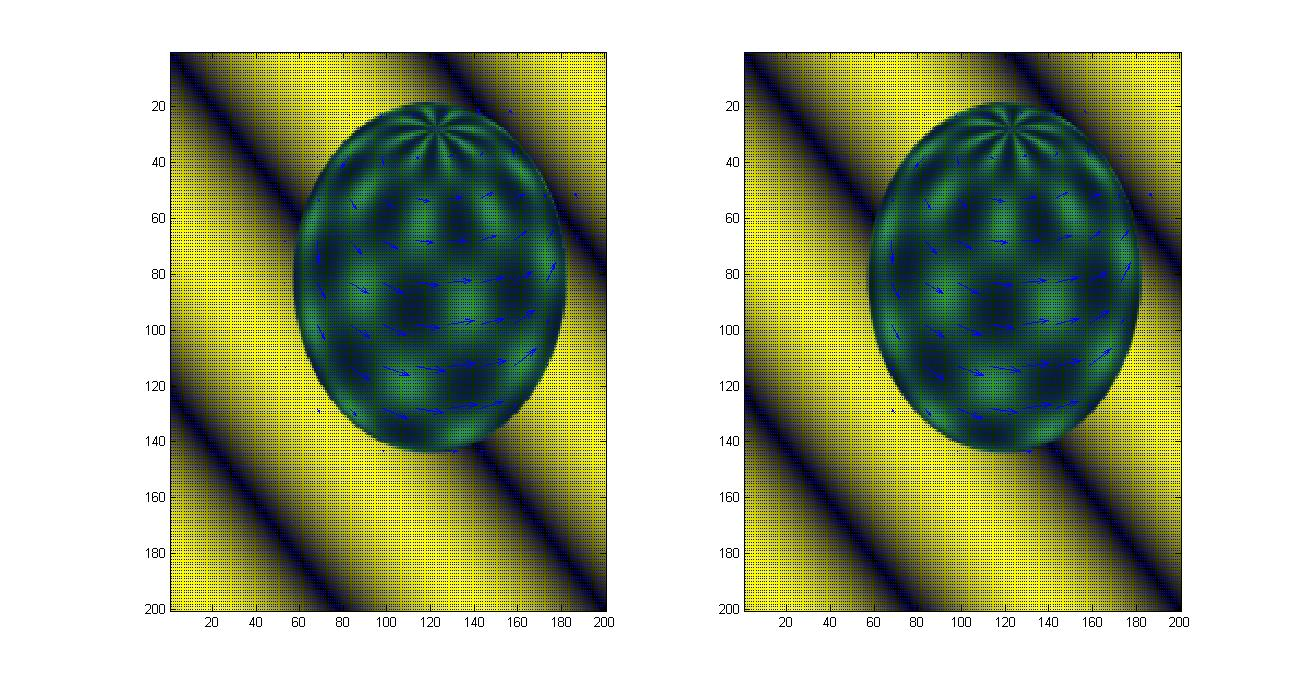
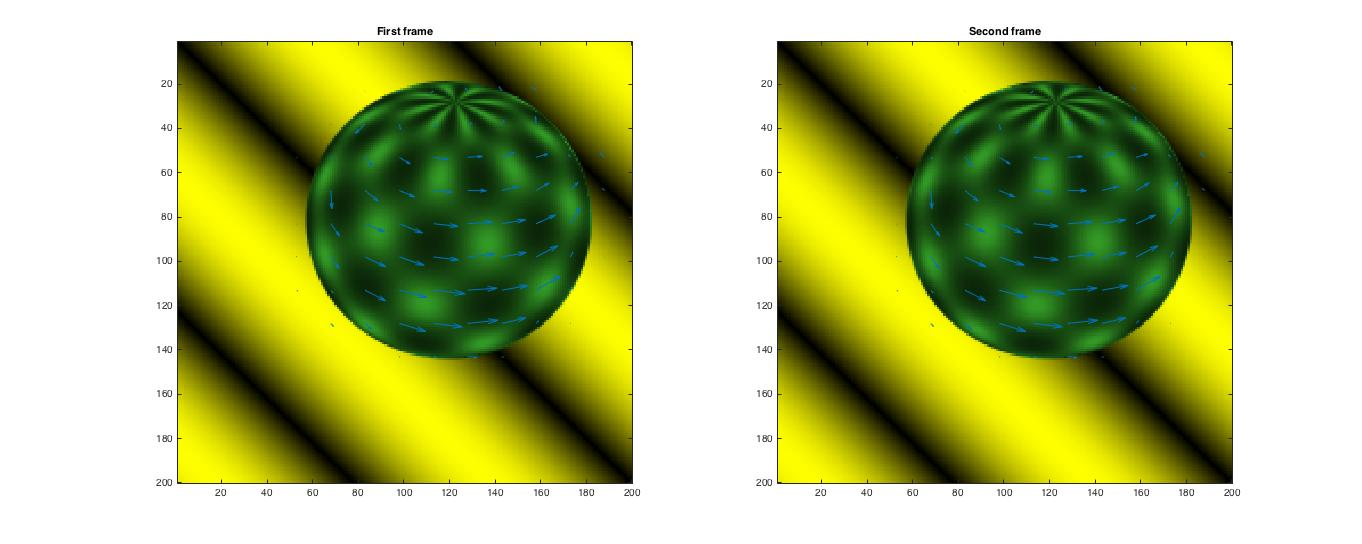
small changes here & there

diff --git a/3-assignment/report.tex b/3-assignment/report.tex
@@ -178,47 +178,70 @@ kernel as stated in the previous section. This time the tuned parameters are as 
 % To get the full partial $x-y$ derivatives, we added the corresponding gradients from image in $t_1$ and $t_2$.
 % NOT SURE WHY? ASSIGNMENT SAYS IT?S ONLY DERIVATIVE EVALUATED AT CURRENT TIME.
 To obtain the $t$ gradient we simply convolve the images with a uniform kernel
-of value $0.5$ and then we subtract $t_2$ from $t_1$.
+of value $0.25$ and then we subtract $t_2$ from $t_1$.
 
 To exploit the assumption made by Lucas-Kanade we divide the image into
 non-overlapping regions. The region size is a parameter that can be tuned, and
-in this case is set as $region\_size= 15$ as recommended by the assignment instructions. Then, for each region we solved the
-system of equations to find an estimation of the $x-y$ velocities of the
-pixel $p$ placed at the center of the region.
+in this case is set as $region\_size= 15$ as recommended by the assignment
+instructions. Then, for each region we solved the system of equations to find an
+estimation of the $x-y$ velocities of the pixel $p$ placed at the center of the
+region.
 
 For convenience we created a helper function $solve-region$ to solve the system
 of equations for a single region. This function takes the region's center
 coordinates $p_x$ and $p_y$, the window's size and the image derivatives in $X$,
-$Y$ and $t$ direction and constructs $A = [I_x I_y)]$ and $b = -I_t$ using the
+$Y$ and $t$ direction and constructs $A = [I_x I_y]$ and $b = -I_t$ using the
 image gradients at the specified region. Those are then used to solve the
 following system:
 $$V = (A^TA)^{-1}A^Tb$$
-which yelds $V = <u, v>$, the displacement matrix for $p$, the region's center.
+which yields $V = <u, v>$, the displacement vector for $p$, the region's center.
 
-The final step is to plot the velocity vectors on top of the image. First, we show the image and $hold on$ the figure, so that then we can plot the velocities with the Matlab $quiver$ function on top of it. The results obtained for the sphere and synth images are shown in Figure \ref{fig:sphere_lucas} and \ref{fig:synth_lucas}.
+The final step is to plot the optical flow on top of the image. First, we
+show the image and $hold on$ the figure, so that then we can plot the velocities
+with the Matlab $quiver$ function on top of it. The results obtained for the
+sphere and synth images are shown in Figure \ref{fig:sphere_lucas} and
+\ref{fig:synth_lucas} respectively.
 
 
 \begin{figure}[H] \centering
-	\includegraphics[width=.8\textwidth]{imgs/sphere.jpg}
-	\caption{Optical flow as determined by Lucas Kanade algorithm, applied to Sphere images.}
+	\includegraphics[width=1\textwidth]{imgs/sphere.jpg}
+	\caption{Optical flow as determined by Lucas-Kanade algorithm, applied to Sphere images.}
 	\label{fig:sphere_lucas}
 \end{figure}
 
 \begin{figure}[H] \centering
-	\includegraphics[width=.8\textwidth]{imgs/synth.jpg}
-	\caption{Optical flow as determined by Lucas Kanade algorithm, applied to Synth images}
+	\includegraphics[width=1\textwidth]{imgs/synth.jpg}
+	\caption{Optical flow as determined by Lucas-Kanade algorithm, applied to Synth images}
 	\label{fig:synth_lucas}
 \end{figure}
 
 
 \section{Tracking}
-With the previous two tools we we able to implement a simple tracking function. To do so, we first applied our implementation of Harris Corner Detector to the image at $t_1$. These were the features that were tracked along the rest of the given frames.  Then, for each pair of consecutive frames (except for the last single frame) we computed its displacement vectors which allowed us to know where the features had moved in subsequent frames. 
+With the previous two tools we we able to implement a simple tracking function.
+To do so, we first applied our implementation of Harris Corner Detector to the
+image at $t_1$. These were the features that were tracked along the rest of the
+given frames.  Then, for each pair of consecutive frames (except for the last
+single frame) we computed its displacement vectors which allowed us to know
+where the features had moved in subsequent frames. 
 
-Since some features may move outside the camera range, we implemented a mechanism to remove them from the list of tracked points. This is important because failing to remove these points causes the tracker to try to follow them, resulting in incoherent information. Firstly, the velocity vectors would be cut in the visualizations that $quiver$ allows, but secondly and most importantly, subsequent frames would not have enough information about where those points moved afterwards and would throw null and/or unusable values.  
+Since some features may move outside the camera range, we implemented a
+mechanism to remove them from the list of tracked points. This is important
+because failing to remove these points causes the tracker to try to follow them,
+resulting in incoherent information. Firstly, the velocity vectors would be cut
+in the visualizations that $quiver$ allows, but secondly and most importantly,
+subsequent frames would not have enough information about where those points
+moved afterwards and would throw null and/or unusable values.  
 
-Once the list of feature points had been checked, we applied the Lucas-Kanade method to get the displacement vectors between each pair of subsequent frames. At this point we were able to show the image with the feature points and their corresponding vectors. Then, we updated the positions of the feature pointsaccording to their displacement and save them as the features for the next frame. 
+Once the list of feature points had been checked, we applied the Lucas-Kanade
+method to get the displacement vectors between each pair of subsequent frames.
+At this point we were able to show the image with the feature points and their
+corresponding vectors. Then, we updated the positions of the feature
+pointsaccording to their displacement and save them as the features for the next
+frame. 
 
-A static visualization for our tracker is shown in Figure \ref{fig:tracker_pingpong} and \ref{fig:trackerperson}. The videos showing the tracking sequences are attached in the .zip file for the assignment delivery.
+A static visualization for our tracker is shown in Figure
+\ref{fig:tracker_pingpong} and \ref{fig:trackerperson}. The videos showing the
+tracking sequences are attached in the .zip file for the assignment delivery.
 
 \begin{figure}[H] \centering
 	\includegraphics[width=.8\textwidth]{imgs/tracker_pingpong.jpg}

diff --git a/3-assignment/lucas_kanade_test.m b/3-assignment/lucas_kanade_test.m
@@ -5,11 +5,11 @@ regions_size = 15;
 quiver_scale = 10;
 show_loops = 5;
 
- impath1 = 'assets/sphere1.ppm';
- impath2 = 'assets/sphere2.ppm';
+impath1 = 'assets/sphere1.ppm';
+impath2 = 'assets/sphere2.ppm';
 
- %impath1 = 'assets/synth1.pgm';
- %impath2 = 'assets/synth2.pgm';
+% impath1 = 'assets/synth1.pgm';
+% impath2 = 'assets/synth2.pgm';
 
 % impath1 = 'assets/pingpong/0000.jpeg';
 % impath2 = 'assets/pingpong/0001.jpeg';
@@ -24,6 +24,8 @@ im2 = imread(impath2);
 % Plot frames side by side
 figure
 subplot 121, imagesc(im1), hold on
-quiver(u, v, quiver_scale), hold off
+quiver(u, v, quiver_scale)
+title('First frame'), hold off
 subplot 122, imagesc(im2), hold on
-quiver(u, v, quiver_scale), hold off
+quiver(u, v, quiver_scale)
+title('Second frame'), hold off

diff --git a/3-assignment/lucas_kanade.m b/3-assignment/lucas_kanade.m
@@ -21,13 +21,13 @@ sigma = 1;
 
 kernel_x = gaussian(sigma, kernel_length);
 kernel_y = kernel_x';
-kernel_t = 0.25 * ones(size(kernel_x));
+kernel_t = 0.5 * ones(size(kernel_x, 1), size(kernel_x, 1));
 
 
 %% Compute image derivatives
 Ix_full = gaussian_der(im1, kernel_x, sigma, 'x') + gaussian_der(im2, kernel_x, sigma, 'x');
 Iy_full = gaussian_der(im1, kernel_y, sigma, 'y') + gaussian_der(im2, kernel_y, sigma, 'y');
-It_full = conv2(im2, kernel_t, 'same') - conv2(im1, kernel_t, 'same');
+It_full = conv2(im1, kernel_t, 'same') - conv2(im2, kernel_t, 'same');
 
 
 %% Apply Lucas-Kanade method
